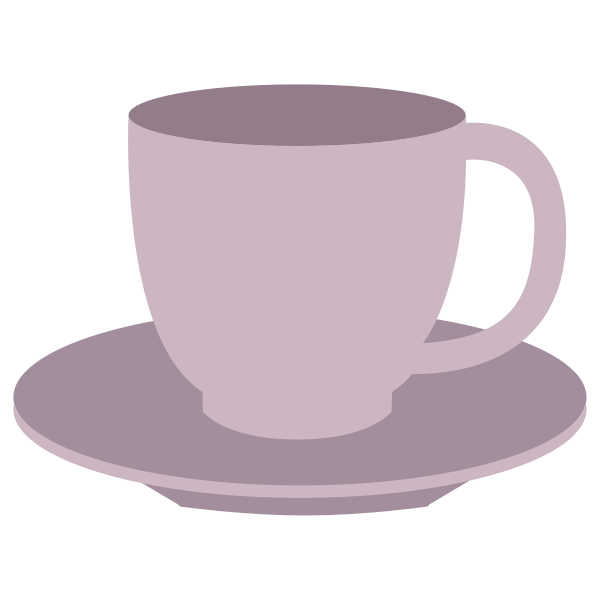
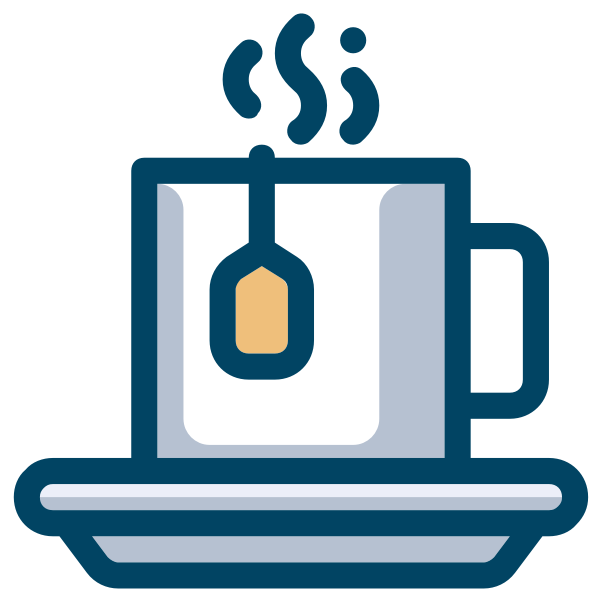
feat: complete cuisine illustration set — all 16 cuisines have PNGs
Added: Indian (thali), Japanese (sushi), Chinese (ramen), Moroccan
(tagine), Korean (kimchi), Cajun (crawfish), Middle Eastern (olive
oil), Fusion (globe). All CC0/public domain from freesvg.org.
Compressed korean.png from 1.4MB to 50KB. Every cuisine in the DB
now has a real illustration — SVG fallback only for unknown cuisines.

diff --git a/components/CuisineArt.tsx b/components/CuisineArt.tsx
@@ -280,11 +280,22 @@ const CUISINE_IMAGES: Record<string, string> = {
   'Italian': '/cuisine/italian.png',
   'Mexican': '/cuisine/mexican.png',
   'Mediterranean': '/cuisine/mediterranean.png',
+  'Middle Eastern': '/cuisine/middleeastern.png',
+  'Middle Eastern fusion': '/cuisine/middleeastern.png',
   'American': '/cuisine/american.png',
   'French': '/cuisine/french.png',
   'British': '/cuisine/british.png',
+  'Japanese': '/cuisine/japanese.png',
+  'Chinese': '/cuisine/chinese.png',
+  'Indian': '/cuisine/indian.png',
+  'North Indian': '/cuisine/indian.png',
+  'Punjabi': '/cuisine/indian.png',
+  'Korean': '/cuisine/korean.png',
   'Thai': '/cuisine/thai.png',
   'Indonesian': '/cuisine/indonesian.png',
+  'Moroccan': '/cuisine/moroccan.png',
+  'Cajun': '/cuisine/cajun.png',
+  'Fusion': '/cuisine/fusion.png',
   'International': '/cuisine/international.png',
 }
 
